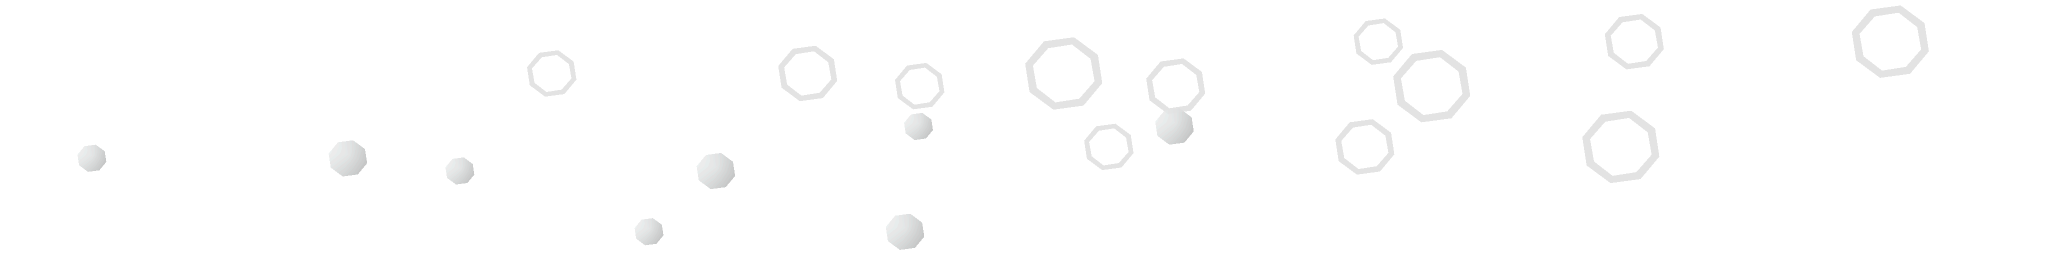
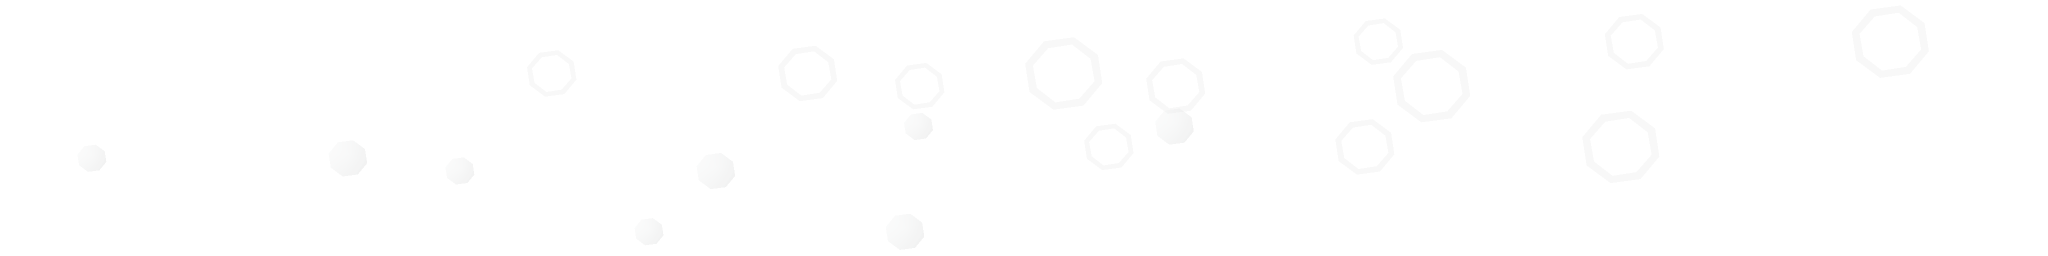
style(game): A spent pool shows the plain fishing spot's dark ripples, not a dimmed copy of the busy one
The board had one sprite doing both jobs. The cache has two, and it already
draws them apart: NPC 1525 and the Tempoross Cove spot (NPC 10565) share the
same 84-face bubble mesh with the same colours, and differ only in the alpha
they carry it at — 200 of 255 for the ordinary spot against 150 for Tempoross,
so 55 of opacity against 105. Over water that gap is the difference a player
sees. At 55 the blue reads straight through the rings and they come out dark;
at 105 they are the white foam of a pool worth casting at.

The old recipe hid that. It boosted the plain spot 4.6× to land it at the same
opacity as the Tempoross one, which made the two bakes come out pixel-identical
and left the renderer to fake the difference with a 50% dim. Now `fishing_spot`
bakes at the alpha the cache gave it, the renderer loads both strips, and the
spent branch draws its own sheet at full alpha.

Also files the thirteen-item backlog the user handed over as round 4 in the
ledger, and corrects F7's status there from adiado to shipped.

diff --git a/lib/game/core/render/fishing.ts b/lib/game/core/render/fishing.ts
@@ -17,12 +17,13 @@ const GLOW = '120,226,255';
 const FADE_MS = 600;
 
 /**
- * One spot, in one of the two looks a pool has. Both play the same strip of frames —
- * the cache bakes the ordinary spot and the Tempoross one off the same bubble model,
- * and the two are the same water — so what separates them is how loud that water is.
- * A pool with fish left in it glows, breathes and bobs. A spent one is the bare dots
- * an ordinary fishing spot leaves on the surface: no halo to invite a cast, one pass
- * rather than two, smaller, and faint enough to read as water rather than an offer.
+ * One spot, in one of the two looks a pool has, each off its own sheet. The cache
+ * bakes the ordinary spot and the Tempoross one from the same bubble model but at
+ * different alpha, so the sprites already differ the way the game differs them: the
+ * busy pool is white foam, the spent one dark ripples the water reads through.
+ * The drawing leans the rest of the way. A pool with fish left in it glows, breathes
+ * and bobs, and gets a second pass to carry the halo. A spent one gets one pass, no
+ * halo to invite a cast, and sits smaller and still.
  */
 function drawSpot(
   ctx: CanvasRenderingContext2D,
@@ -57,7 +58,9 @@ function drawSpot(
     ctx.shadowBlur = 0;
     ctx.drawImage(sheet, f * cell, 0, cell, cell, dx, dy, size, size);
   } else {
-    ctx.globalAlpha = alpha * 0.5;
+    // No dimming here: the plain sheet is already faint, because that faintness is
+    // the cache's own answer for what a spot with nothing in it looks like.
+    ctx.globalAlpha = alpha;
     ctx.drawImage(sheet, f * cell, 0, cell, cell, dx, dy, size, size);
   }
   ctx.restore();
@@ -68,9 +71,9 @@ function drawSpot(
  * The pool underneath is baked into the static background (`render/terrain.ts`).
  *
  * A pool with fish left in it breaks the water like a Tempoross Cove spot; a spent
- * one keeps breaking it, quietly, the way any ordinary fishing spot does, and carries
- * the wave count it is waiting on in the same corner and the same type as an
- * allotment's. Neither look ever cuts to the other: a pool crosses between them over
+ * one keeps breaking it, quietly, the way any ordinary fishing spot does — its own
+ * sprite, not a dimmed copy of the busy one — and carries the wave count it is
+ * waiting on in the same corner and the same type as an allotment's. Neither look ever cuts to the other: a pool crosses between them over
  * one tick, the old one fading out on the tile it was standing on while the new one
  * fades in on the tile the pool holds now.
  */
@@ -80,7 +83,9 @@ export function drawFishing(gr: GameRenderer, ctx: CanvasRenderingContext2D) {
   const t = performance.now() / 1000;
   const idle = !gr.e.waveActive && !gr.e.gameOver;
   const { ripple, foam } = gr.e.biome.water;
-  const sheet = gr.e.imageOk('fishing_spot_active') ? gr.e.images.get('fishing_spot_active') : null;
+  const busy = gr.e.imageOk('fishing_spot_active') ? gr.e.images.get('fishing_spot_active') : null;
+  const spent = gr.e.imageOk('fishing_spot') ? gr.e.images.get('fishing_spot') : null;
+  const sheetFor = (r: boolean) => (r ? busy : spent);
   const now = performance.now();
 
   // A new run brings new pools under new ids. Drop the fade state of any that have
@@ -115,13 +120,15 @@ export function drawFishing(gr: GameRenderer, ctx: CanvasRenderingContext2D) {
       if (k >= 1) fade.from = null;
     }
 
-    // The water breaking, off the cache-rendered NPC — the busy look while there are
-    // fish left to break it, the quiet one once there are not, and both at once while
-    // the pool is crossing from one to the other.
-    if (sheet) {
-      if (fade.from) drawSpot(ctx, sheet, fade.from.x, fade.from.y, fade.from.ready, t, 1 - k);
-      drawSpot(ctx, sheet, spot.x, spot.y, ready, t, k);
+    // The water breaking, off the cache-rendered NPC — the Tempoross spot while there
+    // are fish left to break it, the ordinary one once there are not, and both at once
+    // while the pool is crossing from one to the other.
+    const ghost = fade.from ? sheetFor(fade.from.ready) : null;
+    if (fade.from && ghost) {
+      drawSpot(ctx, ghost, fade.from.x, fade.from.y, fade.from.ready, t, 1 - k);
     }
+    const sheet = sheetFor(ready);
+    if (sheet) drawSpot(ctx, sheet, spot.x, spot.y, ready, t, k);
 
     // A ring of expanding ripples while the line is out, so the bar on the tile
     // and the water agree about what is happening.

diff --git a/lib/game/data/fishing.ts b/lib/game/data/fishing.ts
@@ -73,15 +73,19 @@ export const SPOT_REST_WAVES = 4;
 export const FISHING_MAX_LEVEL = 99;
 
 /**
- * The spot itself: the Tempoross Cove spot (NPC 10565), the brighter, busier water
- * the game uses where the fishing is on. It is baked as eight frames of the spot's
- * own stand animation (seq 7634) rather than a still, because a fishing spot in
- * OSRS is water breaking, and a frozen ripple reads as a decal painted on the sea.
+ * The spot itself, in the two sprites OSRS already has for it. Both are baked as
+ * eight frames of the spot's own stand animation (seq 7634) rather than a still,
+ * because a fishing spot in OSRS is water breaking, and a frozen ripple reads as a
+ * decal painted on the sea.
  *
- * There is no second sprite for a spent pool. Every frame of the strip is foam, so
- * the quietest one is still a bubble sitting over water with nothing in it — a
- * spent pool is bare water and the wave count it is waiting on. The ordinary spot
- * (NPC 1525) is still baked under `fishing_spot` by `scripts/render-osrs-npcs.mjs`,
- * which is where to start if that state ever wants a sprite of its own again.
+ * A pool with fish left in it is the Tempoross Cove spot (NPC 10565), the brighter,
+ * busier water the game uses where the fishing is on. A spent one is the ordinary
+ * spot (NPC 1525). The mesh is the same one twice, down to the colours — what the
+ * cache changes is the alpha it carries the bubbles at, 150 of 255 for the Tempoross
+ * spot against 200 for the plain one. Over water that gap is the whole difference:
+ * the plain spot lets the blue read straight through its rings, so it comes out as
+ * the dark ripples an ordinary fishing spot leaves on the surface, while the
+ * Tempoross one is the white foam of a pool worth casting at.
  */
+export const FISHING_SPOT_ICON = npcModel('fishing_spot');
 export const FISHING_SPOT_ACTIVE_ICON = npcModel('fishing_spot_active');

diff --git a/lib/game/core/engine.ts b/lib/game/core/engine.ts
@@ -76,7 +76,7 @@ import {
 } from '../systems/inventory';
 import {
   FISH_BY_ID, CAST_SECONDS, CAST_XP, SPOT_CASTS,
-  FISHING_SPOT_ACTIVE_ICON, type FishId,
+  FISHING_SPOT_ACTIVE_ICON, FISHING_SPOT_ICON, type FishId,
 } from '../data/fishing';
 import {
   buildFishingSpots, spotStage, spotAtPoint, restockSpots, rollCatch, fishingXpForLevel, gainFishingXp,
@@ -1380,10 +1380,12 @@ export class GameEngine {
       // Bandos's sigil, drawn under anything his General's slam has made immune to
       // crowd control.
       bandos_symbol: ASSETS.misc.bandos_symbol,
-      // The fishing spot's own ripple: the busy Tempoross spot, an eight-frame strip
-      // of its stand animation, drawn only while there are fish in the pool. A spent
-      // pool shows no spot at all, so there is nothing to load for that state.
+      // The fishing spot's own ripple, one eight-frame strip of its stand animation
+      // per state: the busy Tempoross spot while there are fish in the pool, and the
+      // ordinary spot — the same mesh at the fainter alpha the cache gives it — once
+      // there are not.
       fishing_spot_active: FISHING_SPOT_ACTIVE_ICON,
+      fishing_spot: FISHING_SPOT_ICON,
       // …and the water they break, which is the client's own ground texture.
       fishing_water: ASSETS.fishing.water,
       // Distractions & Diversions: the cast that turns up between waves, keyed

diff --git a/docs/feedback-ledger.md b/docs/feedback-ledger.md
@@ -365,8 +365,10 @@ the OSRS cache as always ([[assets-from-osrs-only]] / `lib/game/assets.ts`).
     same spawner as **F1**/**F5** wearing a third mood — one system, three payload kinds — so it
     should not get its own timer, its own click handler or its own spawn scan.
 
-23. **F7 fishing spots** — **adiado** (user, 2026-09-03), kept alongside **F2** as the other
-    live Fun-Content item. Water terrain finally does something (user, 2026-08-21). A water tile
+23. **F7 fishing spots** — **shipped** (2026-09-11 to 2026-09-14), which leaves **F2** as the
+    section's one live Fun-Content item. What follows is the sketch it was built from; the
+    detail that arrived during the build lives in the commits and in backlog round 4 below.
+    Water terrain finally does something (user, 2026-08-21). A water tile
     grows an animated bubble spot; clicking it **between waves** fishes for ~3s on a simple
     progress bar and yields food that restores lives when eaten between waves: shrimp +1, trout
     +2, lobster +3, shark +5, manta ray +8 (very rare). A spot is exhausted after one or two
@@ -387,3 +389,66 @@ the OSRS cache as always ([[assets-from-osrs-only]] / `lib/game/assets.ts`).
     be built after them: with F2/F3 unbuilt the house is a rug and nothing else. **F3 is
     descartado** as of 2026-09-03, so a Trophy Hall room here would have to bring its own
     reason to exist — or the room simply drops and the other five carry the house.
+
+---
+
+## Backlog round 4 (user, 2026-09-14)
+
+Thirteen items handed over in one message, in the order the user wrote them. None of them is
+designed yet; each entry is the brief plus whatever the user already decided about it.
+
+25. **The next-wave preview takes too much room.** The strip that shows what the coming wave
+    brings eats a lot of the board and reads as clutter. Shrink it or restate it — the
+    information stays, the footprint does not. It was already capped once (item **3**, B1,
+    `d815c10`): twelve entries plus "+N more". That cap stopped it swallowing clicks; it did
+    not make it small.
+
+26. **The skill screens want a real design.** Fishing, Farming and Hunter share a layout the
+    user calls odd-looking. It has to stay plainly readable — a player should never have to
+    learn the screen — but it should look like something OSRS shipped. The user asked for
+    research first: study the Collection Log and the interfaces the minigames use (Tempoross,
+    Wintertodt, Barbarian Assault, Pest Control, Soul Wars, the Blast Furnace), then come back
+    with suggestions and ask before building any of them.
+
+27. **A tower may be fused more than once.** The one-fusion-per-tower rule goes: if the player
+    owns the two towers and the gold, the forge is open. The closed roster is untouched — a
+    fusion still consumes both halves rather than adding a seventh buyable tower.
+
+28. **Herb prices scale with the wave, lightly.** The same per-wave treatment the Hunter traps
+    already carry, tuned gentler, so a wave-sixty board cannot buy herbs at wave-one prices.
+
+29. **The fishing spot's own animation fades in and out.** The bubbles should breathe rather
+    than pop. Separate from the cross-fade between the busy and the spent treatment, which
+    shipped in `5ae377e`: this is about the clip itself, each loop easing in and out instead of
+    cutting between frames.
+
+30. **Fishing gets faster as the level climbs.** The cast is a flat bar today. Scale it with
+    the run's Fishing level so 99 casts 50% faster than 1; the curve between is open.
+
+31. **A higher-tier potion replaces the lower one.** Same effect, better tier: Super Energy
+    overwrites Energy instead of stacking with it, and the replacement carries the *full*
+    duration of the new tier. Applies to every ladder where the game holds two tiers of one
+    effect.
+
+32. **The Toxic Staff of the Dead's venom aura is far too wide.** It should reach about 3×3
+    from the tower's own tile. Today it covers the board, and the utility tower's range buff
+    makes that worse — decide whether the aura should take range buffs at all.
+
+33. **"around wave 90" is out of date.** The copy that tells the player where a run is won
+    still quotes wave 90; the victory wave moved. Find every line that names a number and make
+    it name the real one.
+
+34. **The sell sound still plays when a fish is sold instead of eaten.** Trying to eat at full
+    hitpoints sells the fish — that is a sale, and it should sound like one.
+
+35. **Saradomin brew overheals.** Food taking over the healing job left the brew as dead
+    content. Give it back its OSRS identity: it heals past maximum hitpoints, up to a cap
+    derived from the maximum.
+
+36. **Confirm a brew drunk at the overheal cap**, the same way the game already confirms an
+    action that would be wasted.
+
+37. **Validate traps at 5× speed.** Enemies look like they walk over Hunter traps without
+    springing them when the game runs at 5×. Reproduce it before assuming it is a bug — a
+    per-frame trap test that samples position rather than the segment travelled would explain
+    exactly this.
